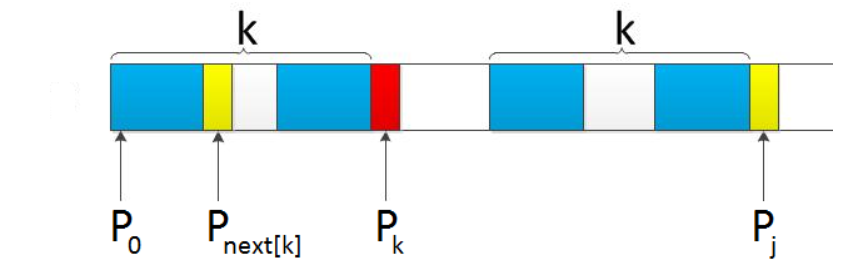
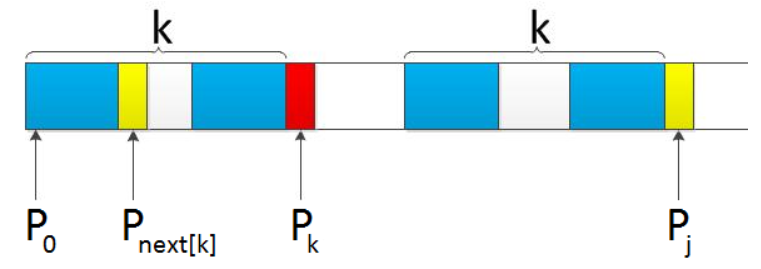
Site updated: 2019-11-09 14:49:18

Changed region(s): [[0.0302, 0.0297, 0.9974, 0.9517], [0.0302, 0.7732, 0.0907, 0.9517]]

diff --git a/2019/11/09/KMP/index.html b/2019/11/09/KMP/index.html
@@ -87,12 +87,12 @@
 <meta property="og:site_name" content="Apr1L&#39;s blog">
 <meta property="og:description" content="对KMP算法的一点理解">
 <meta property="og:locale" content="zh-Hans">
-<meta property="og:image" content="http://suvii22.github.io/2019/11/09/KMP/kmp.PNG">
-<meta property="og:updated_time" content="2019-11-09T06:41:36.606Z">
+<meta property="og:image" content="http://suvii22.github.io/2019/11/09/KMP/kmp.png">
+<meta property="og:updated_time" content="2019-11-09T06:48:47.030Z">
 <meta name="twitter:card" content="summary">
 <meta name="twitter:title" content="KMP">
 <meta name="twitter:description" content="对KMP算法的一点理解">
-<meta name="twitter:image" content="http://suvii22.github.io/2019/11/09/KMP/kmp.PNG">
+<meta name="twitter:image" content="http://suvii22.github.io/2019/11/09/KMP/kmp.png">
 
 
 
@@ -390,7 +390,7 @@
 <h2 id="求解next数组"><a href="#求解next数组" class="headerlink" title="求解next数组"></a>求解next数组</h2><p>我认为理解的KMP算法的困难不在于理解它的思路，而在于学会如何求解<strong>next</strong>数组。<br>我看了很多blog之后，对于求next数组的思路总结了一下：<br>对于模式串P的前j+1个序列字符：</p>
 <ul>
 <li>若P[k] == P[j]，则next[j + 1 ] = next [j] + 1 = k + 1</li>
-<li>若p[k ] ≠ p[j]，如果此时p[ next[k] ] == p[j ]，则next[ j + 1 ] =  next[k] + 1，否则继续递归前缀索引k = next[k]，而后重复此过程。 相当于在字符p[j+1]之前不存在长度为k+1的前缀”p0 p1, …, pk-1 pk”跟后缀“pj-k pj-k+1, …, pj-1 pj”相等，那么是否可能存在另一个值t+1 &lt; k+1，使得长度更小的前缀 “p0 p1, …, pt-1 pt” 等于长度更小的后缀 “pj-t pj-t+1, …, pj-1 pj” 呢？如果存在，那么这个t+1 便是next[ j+1]的值，此相当于利用已经求得的next 数组（next [0, …, k, …, j]）进行P串前缀跟P串后缀的匹配<br><img src="/2019/11/09/KMP/kmp.PNG" alt><br>代码如下：<figure class="highlight plain"><table><tr><td class="gutter"><pre><span class="line">1</span><br><span class="line">2</span><br><span class="line">3</span><br><span class="line">4</span><br><span class="line">5</span><br><span class="line">6</span><br><span class="line">7</span><br><span class="line">8</span><br><span class="line">9</span><br><span class="line">10</span><br><span class="line">11</span><br><span class="line">12</span><br><span class="line">13</span><br><span class="line">14</span><br><span class="line">15</span><br><span class="line">16</span><br><span class="line">17</span><br><span class="line">18</span><br><span class="line">19</span><br><span class="line">20</span><br><span class="line">21</span><br></pre></td><td class="code"><pre><span class="line">void GetNext(char* p,int next[])  </span><br><span class="line">&#123;  </span><br><span class="line">    int pLen = strlen(p);  </span><br><span class="line">    next[0] = -1;  </span><br><span class="line">    int k = -1;  </span><br><span class="line">    int j = 0;  </span><br><span class="line">    while (j &lt; pLen - 1)  </span><br><span class="line">    &#123;  </span><br><span class="line">        //p[k]表示前缀，p[j]表示后缀  </span><br><span class="line">        if (k == -1 || p[j] == p[k])   </span><br><span class="line">        &#123;  </span><br><span class="line">            ++k;  </span><br><span class="line">            ++j;  </span><br><span class="line">            next[j] = k;  </span><br><span class="line">        &#125;  </span><br><span class="line">        else   </span><br><span class="line">        &#123;  </span><br><span class="line">            k = next[k];  </span><br><span class="line">        &#125;  </span><br><span class="line">    &#125;  </span><br><span class="line">&#125;</span><br></pre></td></tr></table></figure>
+<li>若p[k ] ≠ p[j]，如果此时p[ next[k] ] == p[j ]，则next[ j + 1 ] =  next[k] + 1，否则继续递归前缀索引k = next[k]，而后重复此过程。 相当于在字符p[j+1]之前不存在长度为k+1的前缀”p0 p1, …, pk-1 pk”跟后缀“pj-k pj-k+1, …, pj-1 pj”相等，那么是否可能存在另一个值t+1 &lt; k+1，使得长度更小的前缀 “p0 p1, …, pt-1 pt” 等于长度更小的后缀 “pj-t pj-t+1, …, pj-1 pj” 呢？如果存在，那么这个t+1 便是next[ j+1]的值，此相当于利用已经求得的next 数组（next [0, …, k, …, j]）进行P串前缀跟P串后缀的匹配<br><img src="/2019/11/09/KMP/kmp.png" alt><br>代码如下：<figure class="highlight plain"><table><tr><td class="gutter"><pre><span class="line">1</span><br><span class="line">2</span><br><span class="line">3</span><br><span class="line">4</span><br><span class="line">5</span><br><span class="line">6</span><br><span class="line">7</span><br><span class="line">8</span><br><span class="line">9</span><br><span class="line">10</span><br><span class="line">11</span><br><span class="line">12</span><br><span class="line">13</span><br><span class="line">14</span><br><span class="line">15</span><br><span class="line">16</span><br><span class="line">17</span><br><span class="line">18</span><br><span class="line">19</span><br><span class="line">20</span><br><span class="line">21</span><br></pre></td><td class="code"><pre><span class="line">void GetNext(char* p,int next[])  </span><br><span class="line">&#123;  </span><br><span class="line">    int pLen = strlen(p);  </span><br><span class="line">    next[0] = -1;  </span><br><span class="line">    int k = -1;  </span><br><span class="line">    int j = 0;  </span><br><span class="line">    while (j &lt; pLen - 1)  </span><br><span class="line">    &#123;  </span><br><span class="line">        //p[k]表示前缀，p[j]表示后缀  </span><br><span class="line">        if (k == -1 || p[j] == p[k])   </span><br><span class="line">        &#123;  </span><br><span class="line">            ++k;  </span><br><span class="line">            ++j;  </span><br><span class="line">            next[j] = k;  </span><br><span class="line">        &#125;  </span><br><span class="line">        else   </span><br><span class="line">        &#123;  </span><br><span class="line">            k = next[k];  </span><br><span class="line">        &#125;  </span><br><span class="line">    &#125;  </span><br><span class="line">&#125;</span><br></pre></td></tr></table></figure>
 
 </li>
 </ul>

diff --git a/2019/10/08/攻防世界-pwn1/index.html b/2019/10/08/攻防世界-pwn1/index.html
@@ -68,7 +68,7 @@
 
 
 
-  <meta name="keywords" content="pwn,栈溢出,ROP,canary,">
+  <meta name="keywords" content="pwn,栈溢出,canary,ROP,">
 
 
 
@@ -80,7 +80,7 @@
 
 
 <meta name="description" content="通过print函数泄露canary，然后……">
-<meta name="keywords" content="pwn,栈溢出,ROP,canary">
+<meta name="keywords" content="pwn,栈溢出,canary,ROP">
 <meta property="og:type" content="article">
 <meta property="og:title" content="攻防世界 pwn1">
 <meta property="og:url" content="http://suvii22.github.io/2019/10/08/攻防世界-pwn1/index.html">
@@ -418,9 +418,9 @@
           
             <a href="/tags/栈溢出/" rel="tag"># 栈溢出</a>
           
-            <a href="/tags/ROP/" rel="tag"># ROP</a>
-          
             <a href="/tags/canary/" rel="tag"># canary</a>
+          
+            <a href="/tags/ROP/" rel="tag"># ROP</a>
           
         </div>
       

diff --git a/css/main.css b/css/main.css
@@ -1823,7 +1823,7 @@ pre .javascript .function {
   width: 4px;
   height: 4px;
   border-radius: 50%;
-  background: #25ff77;
+  background: #ffffe5;
 }
 .links-of-blogroll {
   font-size: 13px;
